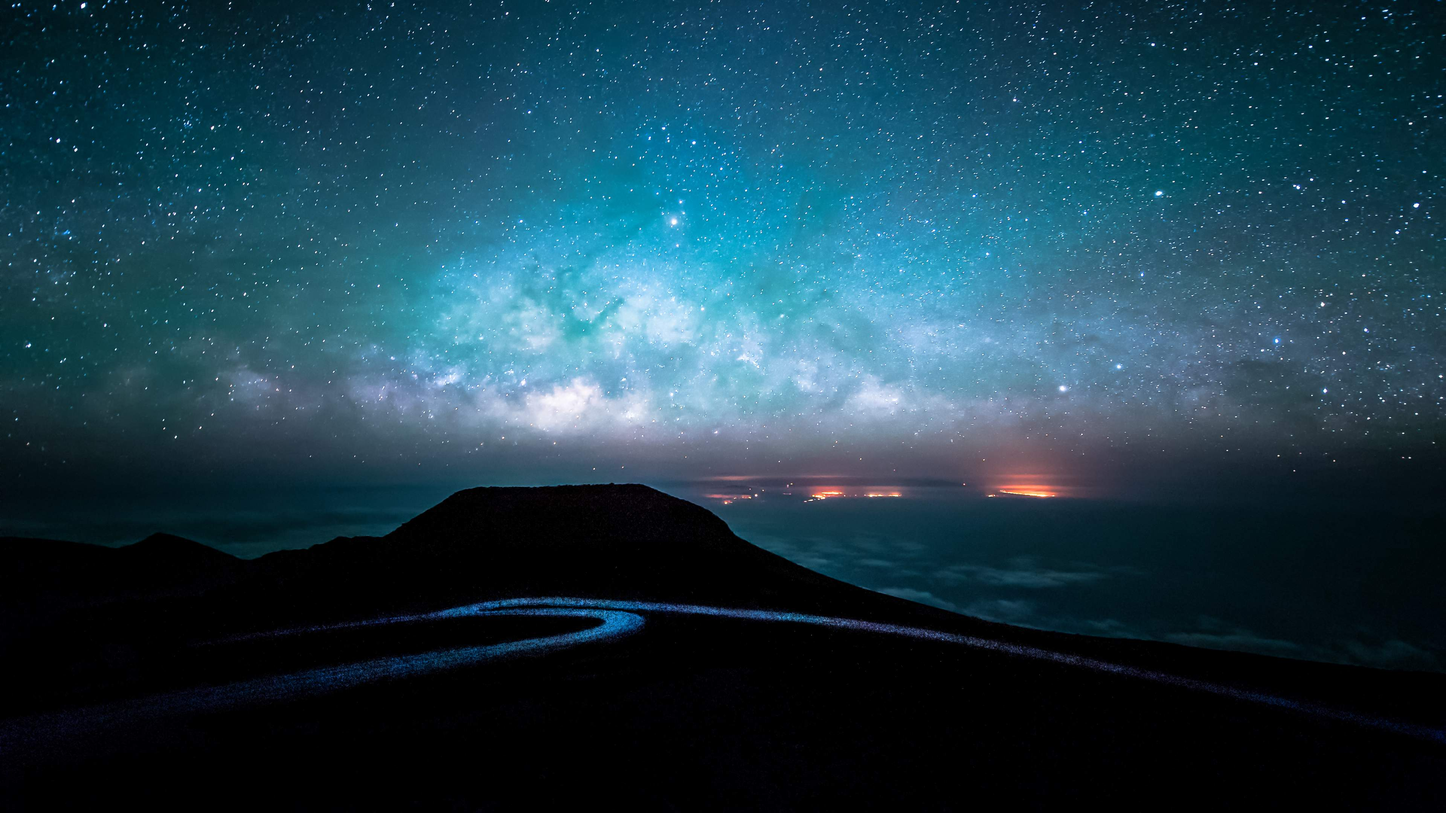
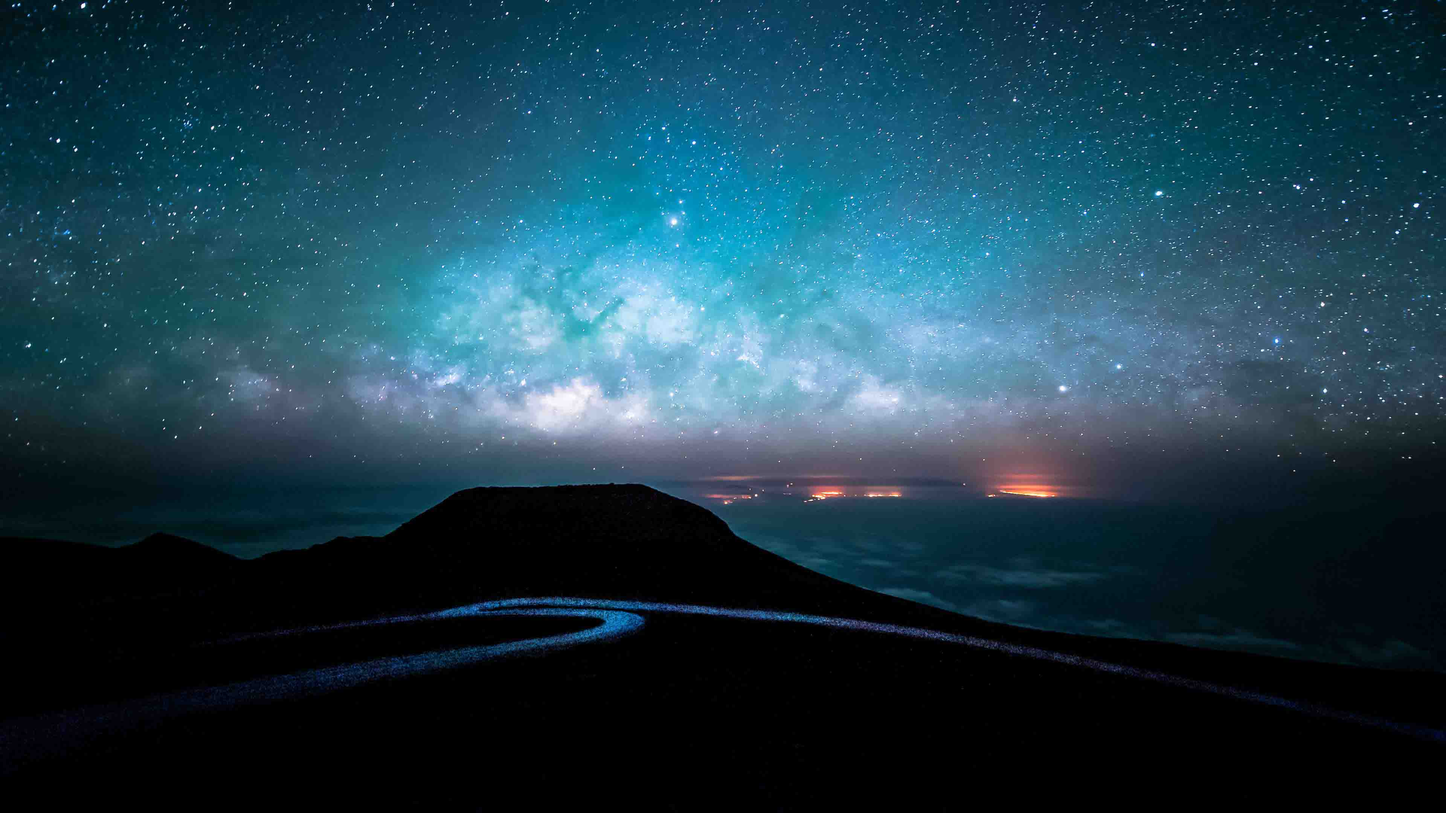
Responsive background
Add new background image for smaller screen
Compress background image to smaller size

Changed region(s): [[0.4062, 0.7444, 0.4375, 0.7755]]

diff --git a/Styles/CV.css b/Styles/CV.css
@@ -104,6 +104,12 @@
 }
 
 @media screen and (max-width:980px){
+    #Page{
+        background: url('../Images/mobile_wallpaper.jpg') no-repeat center;
+        background-size: cover;
+        background-attachment: fixed;
+    }
+
     #CV .side-by-side{
         flex-direction: column;
     }
